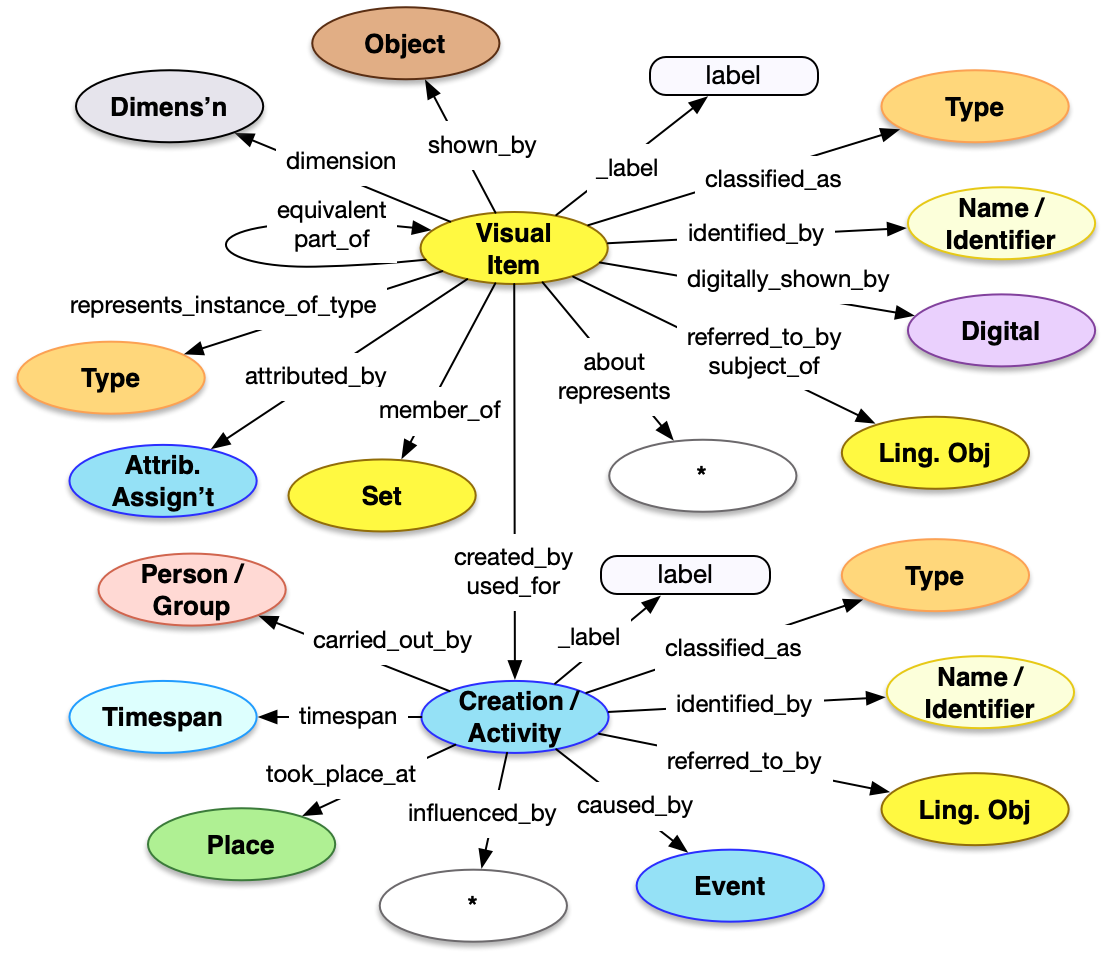
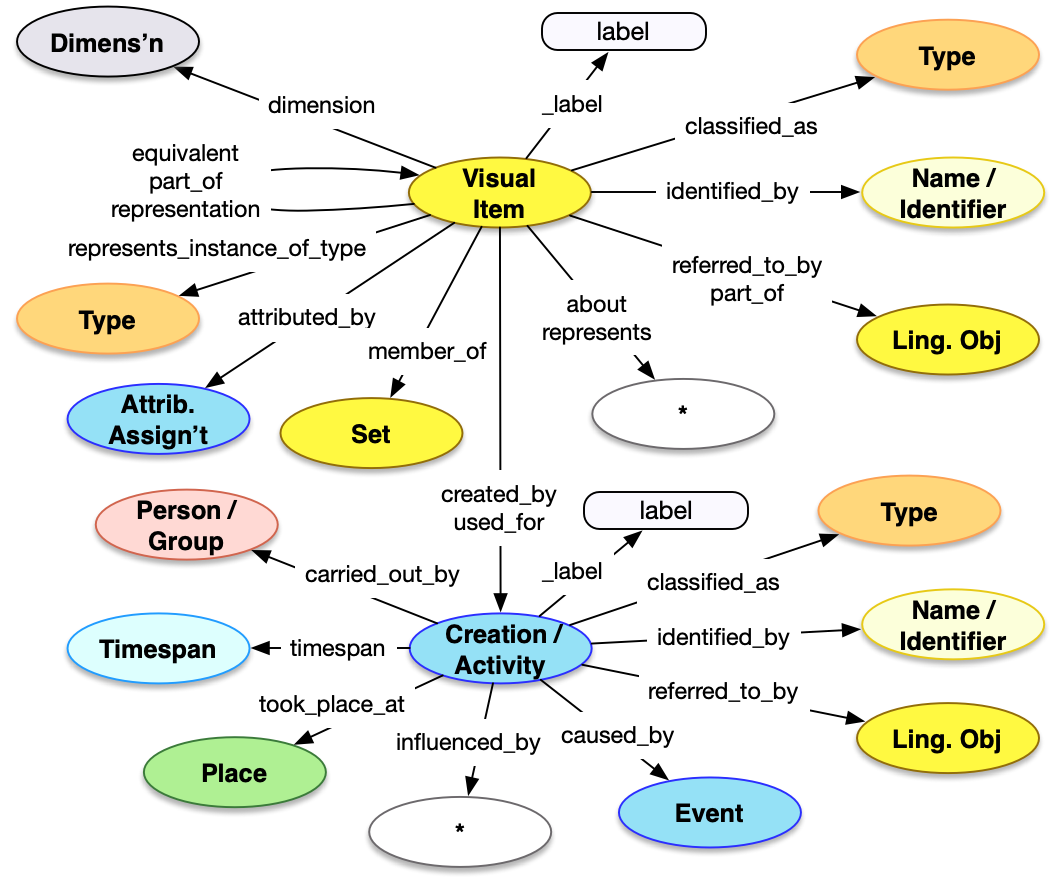
fix shown_by

diff --git a/docs/api/1.0/endpoint/visual_work/index.md b/docs/api/1.0/endpoint/visual_work/index.md
@@ -42,8 +42,6 @@ Dereferencing an entity via the Visual Work endpoint would result in a JSON-LD d
 | `attributed_by`   | array         | Optional    | An array of json objects, each of which is a [Relationship Assignment](../../shared/assignment/) that relates the current visual work to another entity |
 | `dimension` | array | Optional | An array of json objects, each of which is a [Dimension](../../shared/dimension), such as abstract height or width, of the current visual work |
 | `part_of` | array | Optional | An array of json objects, each of which is a [reference](../../shared/reference/) to another Visual Work or a [Textual Work](../textual_work/) that the current visual work is a part of |
-| `digitally_shown_by` | array | Optional | An array of json objects, each of which is a [reference](../../shared/reference/) to a [Digital Object](../digital/), such as a JPEG image, that digitally shows this visual work |
-| `shown_by` | array | Optional | An array of json objects, each of which is a [reference](../../shared/reference/) to a [Physical Object](../object/), such as a painting, that physically shows this visual work |
 | `about` | array | Optional | An array of json objects, each of which is a [reference](../../shared/reference/) to another entity of any type, that this text is primarily about | 
 | `represents` | array | Optional | An array of json objects, each of which is a [reference](../../shared/reference/) to another entity of any type, that this visual work represents or depicts |
 | `represents_entity_of_type` | array | Optional | An array of json objects, each of which is a type of another entity that this visual work represents or depicts, but where the individual is not known and MUST follow the requirements for [Type](../../shared/type/) |
